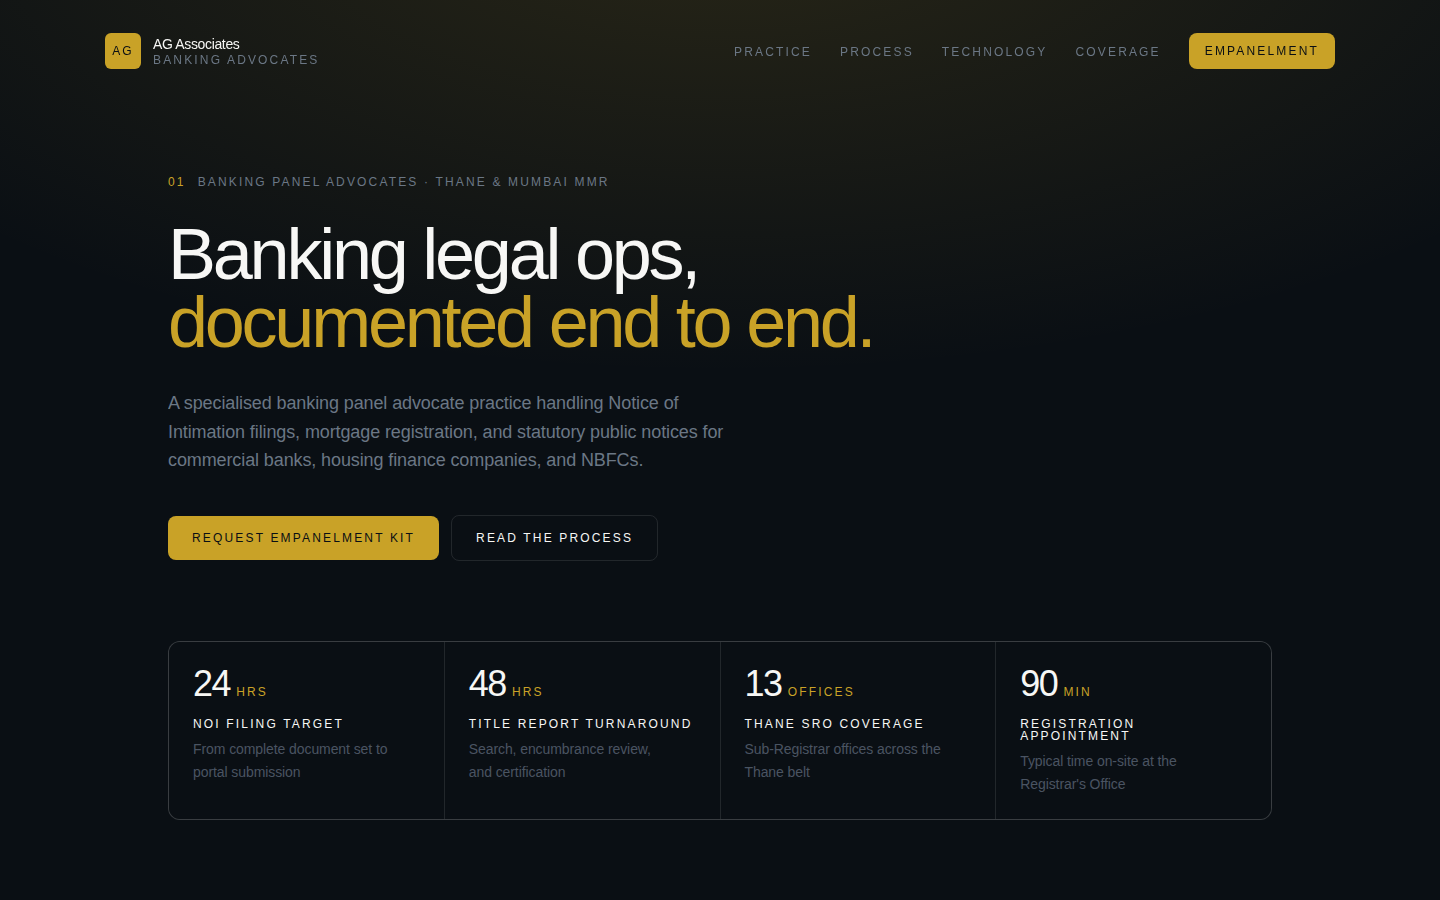
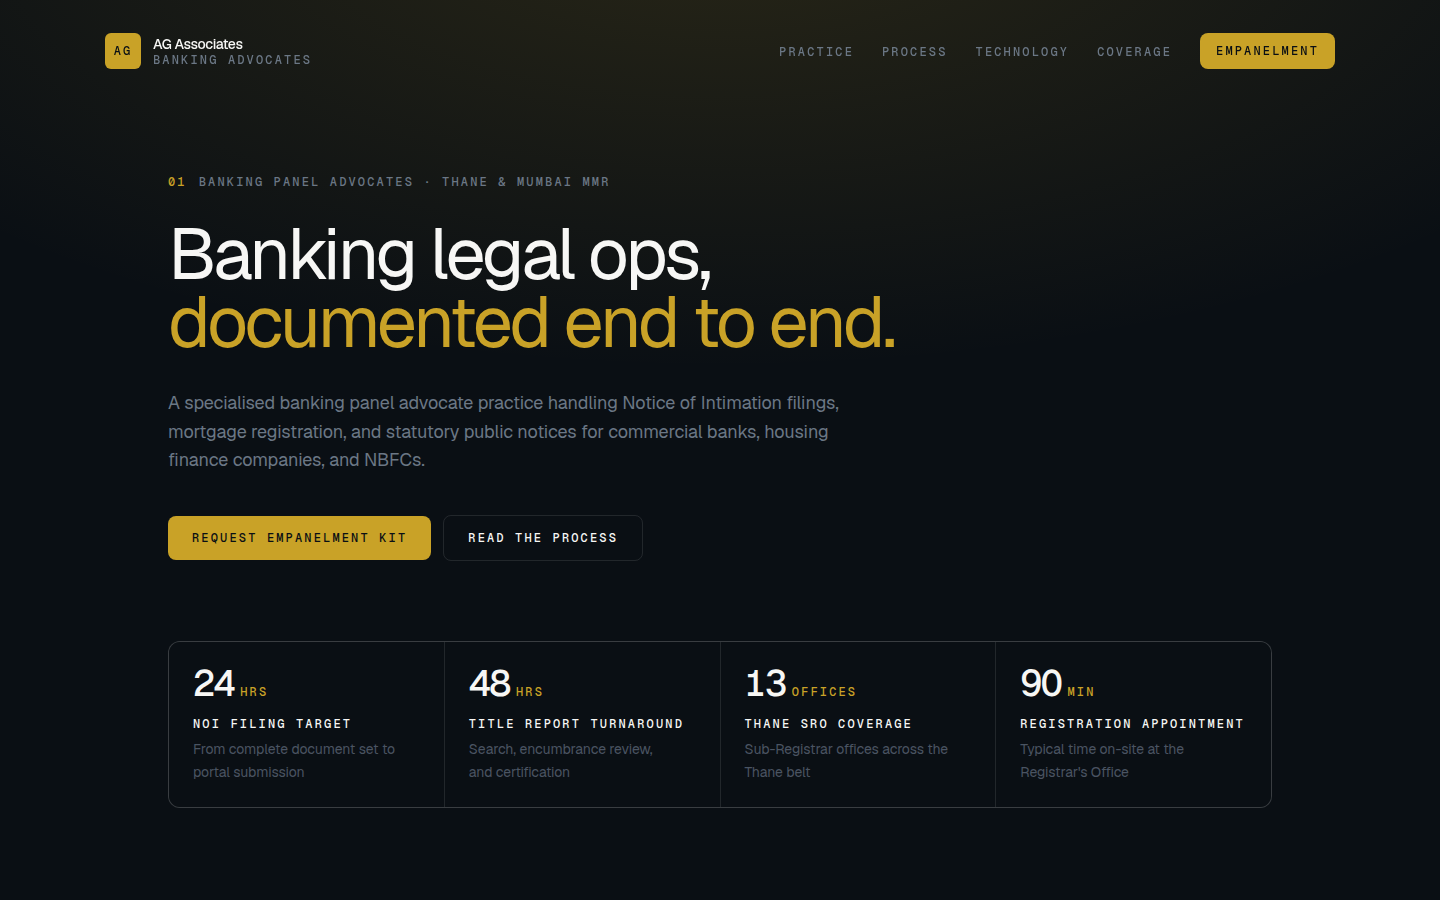
fix(web): apply font variables on html so webfonts actually load
The next/font variable classes were set on <body>, but --font-display and
--font-mono are declared in @theme, which lands on :root. A custom property
is resolved against the element it is declared on, so on <html> the
--font-geist-sans reference had nothing to resolve against and --font-display
computed to nothing. Every element then fell through to the browser's
default sans stack.

The failure was silent: the woff2 files were built and served, the layout
metrics were correct, and only the glyphs were wrong, so it survived the
first round of screenshot QA. Caught by reading computed styles off the
deployed page rather than looking at it.

Verified after the fix: --font-display resolves to the Geist stack on
<html>, and document.fonts reports both families as loaded.

Claude-Session: https://claude.ai/code/session_01G78qJWSZjm2WqmuLMsrwxt

diff --git a/apps/web/src/app/layout.tsx b/apps/web/src/app/layout.tsx
@@ -58,8 +58,13 @@ export default function RootLayout({
   children: React.ReactNode;
 }>) {
   return (
-    <html lang="en-IN">
-      <body className={`${geistSans.variable} ${geistMono.variable}`}>
+    // The font variables must live on <html>, not <body>. `--font-display` and
+    // `--font-mono` are declared in @theme (which lands on :root) and reference
+    // these; a custom property resolves against the element it is declared on,
+    // so scoping them to <body> leaves the @theme tokens invalid and the whole
+    // page silently falls back to the system stack.
+    <html lang="en-IN" className={`${geistSans.variable} ${geistMono.variable}`}>
+      <body>
         <SmoothScroll />
         <a
           href="#main"
